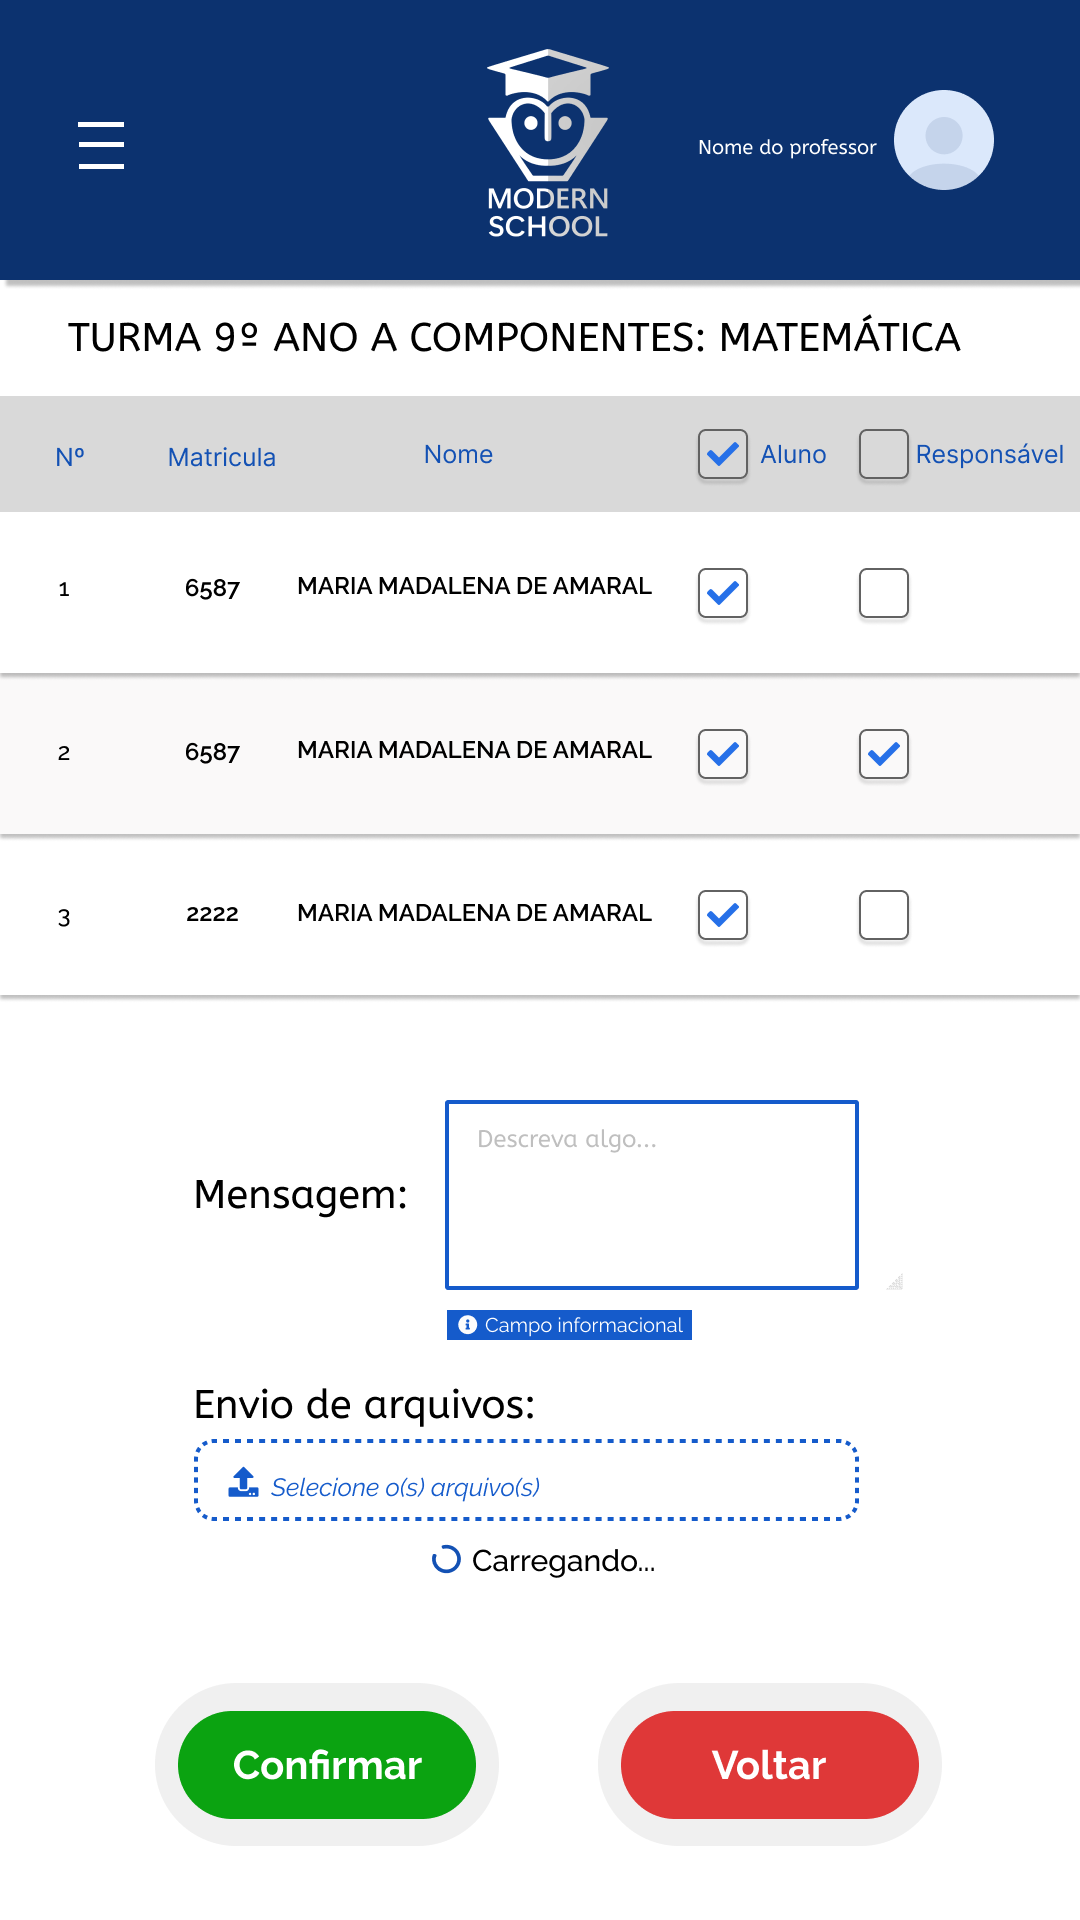
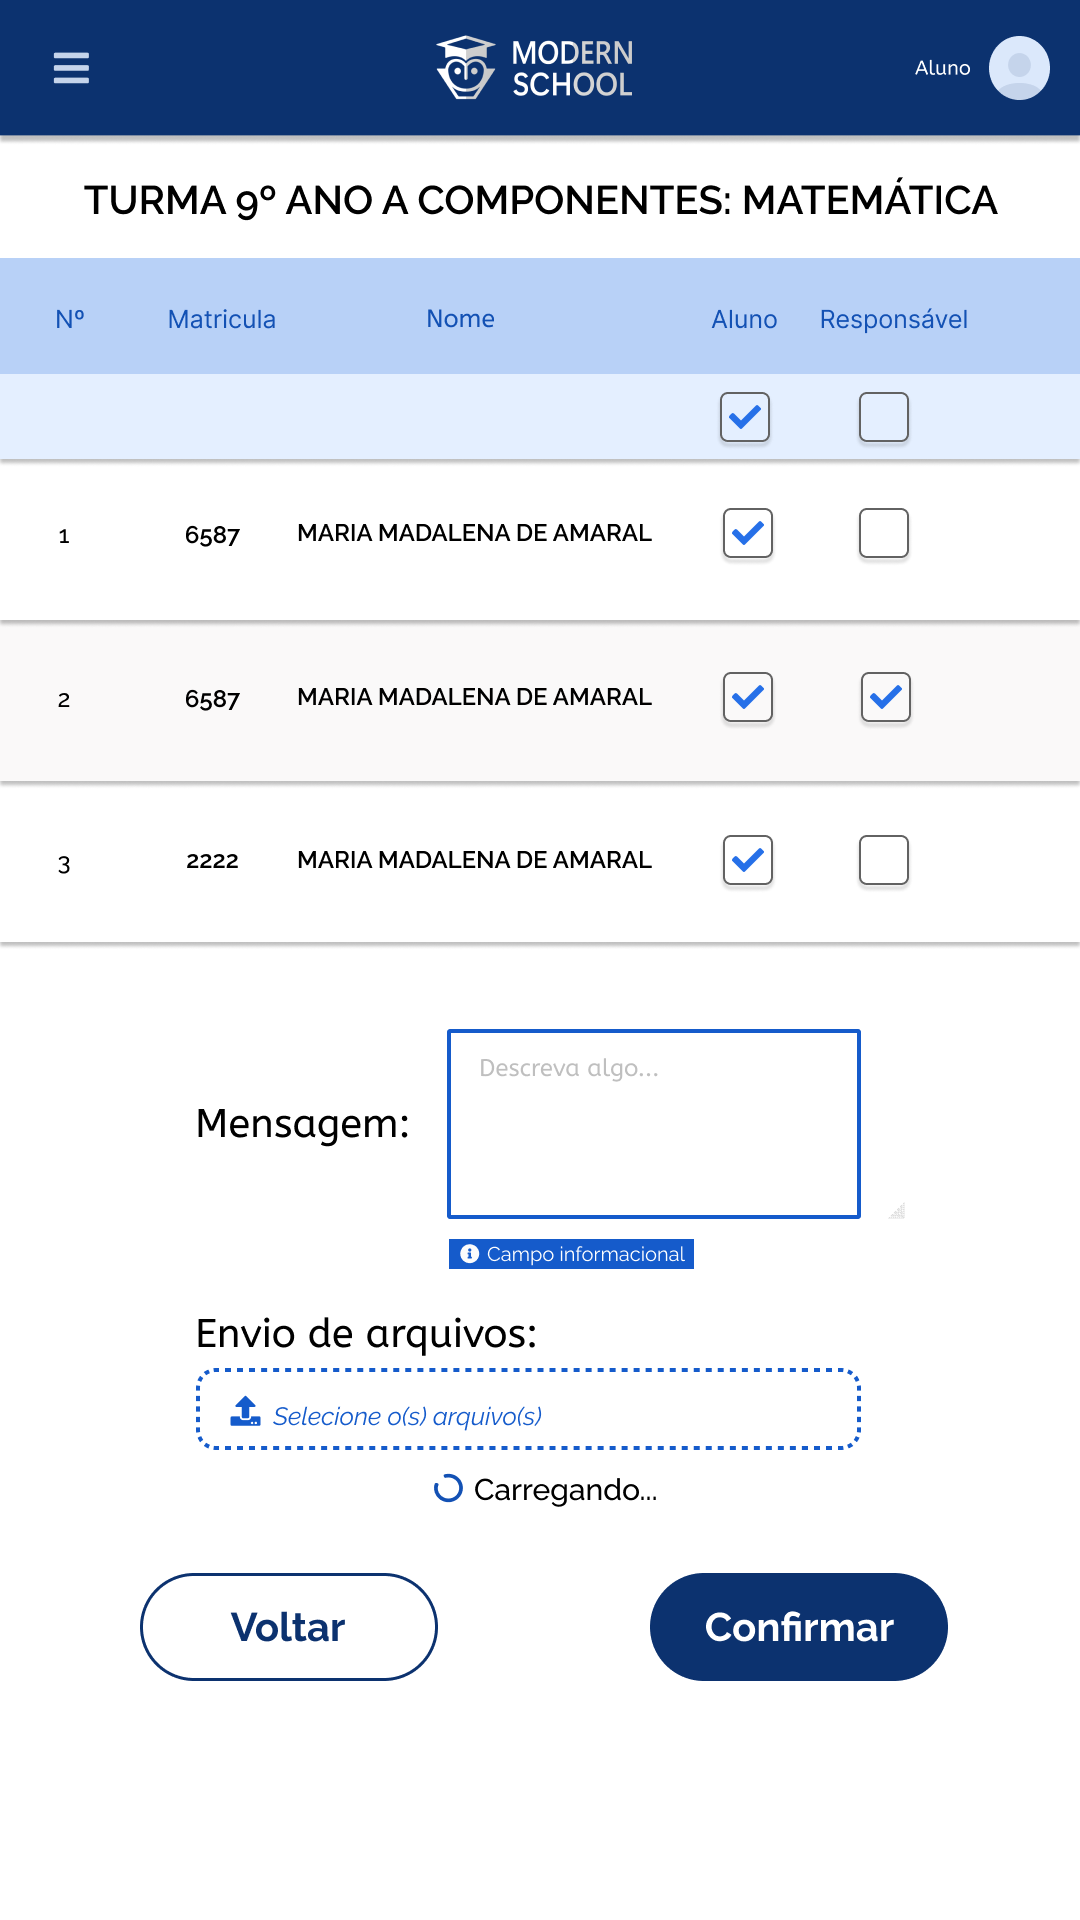
[HOTFIX]
## Feito
- Alteração de appBar para proporção real em todas as telas
- Reposicionamento de itens
- Alteração de cor ( o cinza que deixei azul pode ser mudado, sem problema)
- Adicionando cor como característica das disciplinas ( cores podem ser geradas aleatoriamente, se for fazer associado à disciplina será necessário adicionar atributo ao banco de dados)
- Adição de icones: download, check ( para quando atividade estiver com status enviada), calendario (para label de data), relogio (para label de horario)

##Pendencias: 
- Rever padrão de listagem, decidir entre caixa ou borda infinita.
- Revisar a tela_020
- Revisar se todas as fontes estão com raleway
- revisar alinhamento de tudo

diff --git a/Mobile/README.md b/Mobile/README.md
@@ -1,0 +1,7 @@
+# Modern-School-UI
+
+Interfaces do Modern School - Versão mobile
+
+## Figma : 
+Para ver os protótipos em dashboard basta clicar em [Link do Figma](https://www.figma.com/file/ztVeIJKClgdyYuaAUwaJZs/Modern-School-UI-team-library?node-id=463%3A81&t=DKhRF1PM80xhVBsp-1)
+
